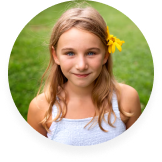
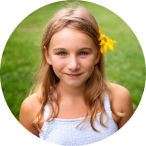
фывафыва

diff --git a/apps/klany_mobile/lib/src/features/home/pages/parent_family_settings_page.dart b/apps/klany_mobile/lib/src/features/home/pages/parent_family_settings_page.dart
@@ -19,6 +19,7 @@ import '../child_soft_ui.dart';
 import 'document_page.dart';
 import 'tech_support_page.dart';
 import '../../../core/app_snackbar.dart';
+import '../../../core/storage_presign.dart';
 
 const Color _figmaSettingsMint = Color(0xFFD9F6C2);
 const Color _figmaSettingsSkyButton = Color(0xFF9EC4F6);
@@ -696,7 +697,9 @@ class _ParentFamilySettingsPageState
                   builder: (context, constraints) {
                     final maxW = constraints.maxWidth;
                     final pageWidth = klanyResponsiveContentWidth(maxW);
-                    final sidePadding = maxW < 430 ? 19.0 : 24.0;
+                    // Карточка «Клан» — прежние поля; контент ниже — шире (меньший inset).
+                    final clanHorizontal = maxW < 430 ? 18.0 : 22.0;
+                    final settingsHorizontal = maxW < 430 ? 8.0 : 11.0;
                     return Center(
                       child: SizedBox(
                         width: pageWidth,
@@ -710,16 +713,18 @@ class _ParentFamilySettingsPageState
                           ),
                           child: ListView(
                             physics: const ClampingScrollPhysics(),
-                            padding: EdgeInsets.fromLTRB(
-                              sidePadding,
-                              31,
-                              sidePadding,
-                              40,
-                            ),
+                            padding: const EdgeInsets.fromLTRB(0, 31, 0, 40),
                             children: [
                               Padding(
-                                padding: EdgeInsets.zero,
-                                child: SizedBox(
+                                padding: EdgeInsets.symmetric(
+                                  horizontal: clanHorizontal,
+                                ),
+                                child: Column(
+                                  crossAxisAlignment:
+                                      CrossAxisAlignment.stretch,
+                                  mainAxisSize: MainAxisSize.min,
+                                  children: [
+                              SizedBox(
                                   height: 48,
                                   child: Row(
                                     crossAxisAlignment:
@@ -789,7 +794,6 @@ class _ParentFamilySettingsPageState
                                     ],
                                   ),
                                 ),
-                              ),
                               const SizedBox(height: 20),
 
                               // ── Clan card (3 rows in one card) ───────────────────────────
@@ -1246,6 +1250,8 @@ class _ParentFamilySettingsPageState
                                                 userKey: 'member:${c.id}',
                                                 avatarFallback: initial,
                                                 label: c.displayName,
+                                                avatarObjectKey:
+                                                    c.avatarObjectKey,
                                                 remoteImageUrl:
                                                     c.avatarImageUrl,
                                                 onAvatarTap: _busy
@@ -1437,6 +1443,18 @@ class _ParentFamilySettingsPageState
                                                           : '?',
                                                       remoteImageUrl:
                                                           item.avatarImageUrl,
+                                                      remoteDiskCacheKey:
+                                                          (item.avatarObjectKey ??
+                                                                      '')
+                                                                  .trim()
+                                                                  .isEmpty
+                                                              ? null
+                                                              : storageObjectDiskCacheKey(
+                                                                  'member-avatars',
+                                                                  item
+                                                                      .avatarObjectKey!
+                                                                      .trim(),
+                                                                ),
                                                     ),
                                                   ),
                                                   const SizedBox(width: 10),
@@ -2107,12 +2125,14 @@ class _MemberTile extends StatelessWidget {
     required this.userKey,
     required this.avatarFallback,
     required this.label,
+    this.avatarObjectKey,
     this.remoteImageUrl,
     this.onAvatarTap,
   });
   final String userKey;
   final String avatarFallback;
   final String label;
+  final String? avatarObjectKey;
   final String? remoteImageUrl;
   final VoidCallback? onAvatarTap;
 
@@ -2149,6 +2169,13 @@ class _MemberTile extends StatelessWidget {
               size: 56,
               fallbackText: avatarFallback,
               remoteImageUrl: remoteImageUrl,
+              remoteDiskCacheKey:
+                  (avatarObjectKey ?? '').trim().isEmpty
+                      ? null
+                      : storageObjectDiskCacheKey(
+                          'member-avatars',
+                          avatarObjectKey!.trim(),
+                        ),
             ),
           ),
           const SizedBox(height: 4),

diff --git a/apps/klany_mobile/lib/src/features/home/avatar_store.dart b/apps/klany_mobile/lib/src/features/home/avatar_store.dart
@@ -1,4 +1,6 @@
 import 'dart:io';
+
+import 'package:cached_network_image/cached_network_image.dart';
 import 'package:flutter/material.dart';
 import 'package:image_picker/image_picker.dart';
 import 'package:path_provider/path_provider.dart';
@@ -223,12 +225,16 @@ class UserAvatar extends StatefulWidget {
     required this.size,
     this.fallbackText,
     this.remoteImageUrl,
+    /// Стабильный ключ для [CachedNetworkImage] (bucket + objectKey или свой идентификатор).
+    /// Если null при наличии [remoteImageUrl], используется `avatar-remote::<userKey>`.
+    this.remoteDiskCacheKey,
   });
   final String userKey;
   final double size;
   final String? fallbackText;
   /// Прямая или presigned HTTPS-ссылка на аватар с сервера (приоритетнее локального файла).
   final String? remoteImageUrl;
+  final String? remoteDiskCacheKey;
 
   @override
   State<UserAvatar> createState() => _UserAvatarState();
@@ -258,7 +264,9 @@ class _UserAvatarState extends State<UserAvatar> {
   @override
   void didUpdateWidget(covariant UserAvatar oldWidget) {
     super.didUpdateWidget(oldWidget);
-    if (oldWidget.userKey != widget.userKey) {
+    if (oldWidget.userKey != widget.userKey ||
+        oldWidget.remoteImageUrl != widget.remoteImageUrl ||
+        oldWidget.remoteDiskCacheKey != widget.remoteDiskCacheKey) {
       _load();
     }
   }
@@ -283,6 +291,13 @@ class _UserAvatarState extends State<UserAvatar> {
   Widget build(BuildContext context) {
     final remote = widget.remoteImageUrl;
     if (remote != null && remote.isNotEmpty) {
+      final dpr = MediaQuery.devicePixelRatioOf(context);
+      final mw = (widget.size * dpr).round().clamp(1, 4096);
+      final cacheKey =
+          (widget.remoteDiskCacheKey ?? '').trim().isEmpty
+              ? 'avatar-remote::${widget.userKey}'
+              : widget.remoteDiskCacheKey!.trim();
+
       return Container(
         width: widget.size,
         height: widget.size,
@@ -292,14 +307,21 @@ class _UserAvatarState extends State<UserAvatar> {
         ),
         clipBehavior: Clip.antiAlias,
         alignment: Alignment.center,
-        child: Image.network(
-          remote,
-          fit: BoxFit.cover,
+        child: CachedNetworkImage(
+          imageUrl: remote,
+          cacheKey: cacheKey,
           width: widget.size,
           height: widget.size,
-          gaplessPlayback: true,
-          filterQuality: FilterQuality.medium,
-          errorBuilder: (_, _, _) => _localBody(),
+          fit: BoxFit.cover,
+          memCacheWidth: mw,
+          memCacheHeight: mw,
+          fadeInDuration: Duration.zero,
+          fadeOutDuration: Duration.zero,
+          placeholder: (context, url) => ColoredBox(
+            color: const Color(0xFFEFF2F8),
+            child: SizedBox(width: widget.size, height: widget.size),
+          ),
+          errorWidget: (context, url, error) => _localBody(),
         ),
       );
     }

diff --git a/apps/klany_mobile/lib/src/features/home/pages/parent_home_page.dart b/apps/klany_mobile/lib/src/features/home/pages/parent_home_page.dart
@@ -20,6 +20,7 @@ import '../../shop/pages/parent_shop_page.dart';
 import '../../wallet/pages/parent_wallets_page.dart';
 import '../../wallet/wallet_repository.dart';
 import '../../notifications/pages/notifications_page.dart';
+import '../../../core/storage_presign.dart';
 import '../avatar_store.dart';
 import '../child_soft_ui.dart';
 import 'parent_family_settings_page.dart';
@@ -1306,6 +1307,13 @@ class _MembersStripState extends State<_MembersStrip> {
             size: 73,
             fallbackText: initial,
             remoteImageUrl: e.value.avatarImageUrl,
+            remoteDiskCacheKey:
+                (e.value.avatarObjectKey ?? '').trim().isEmpty
+                    ? null
+                    : storageObjectDiskCacheKey(
+                        'member-avatars',
+                        e.value.avatarObjectKey!.trim(),
+                      ),
           ),
         ),
       );
@@ -1725,6 +1733,16 @@ class _ChildDetailsPanel extends StatelessWidget {
                               userKey: 'child:${wallet.childId}',
                               size: 56,
                               fallbackText: childInitial,
+                              remoteImageUrl: wallet.avatarImageUrl,
+                              remoteDiskCacheKey:
+                                  (wallet.avatarObjectKey ?? '')
+                                          .trim()
+                                          .isEmpty
+                                      ? null
+                                      : storageObjectDiskCacheKey(
+                                          'member-avatars',
+                                          wallet.avatarObjectKey!.trim(),
+                                        ),
                             ),
                             Positioned(
                               right: -2,

diff --git a/apps/klany_mobile/lib/src/core/storage_presign.dart b/apps/klany_mobile/lib/src/core/storage_presign.dart
@@ -141,3 +141,8 @@ void invalidatePresignStorageDownload({
     PresignStorageDownloadCache.invalidate(bucket: bucket, objectKey: objectKey);
 
 void clearPresignStorageDownloadCache() => PresignStorageDownloadCache.clear();
+
+/// Ключ для дискового кэша изображений ([CachedNetworkImage]): один объект в bucket —
+/// один файл на устройстве, пока не сменится [objectKey] (presigned URL при этом может меняться).
+String storageObjectDiskCacheKey(String bucket, String objectKey) =>
+    '${bucket.trim()}::${objectKey.trim()}';

diff --git a/apps/klany_mobile/lib/src/features/home/presigned_member_avatar.dart b/apps/klany_mobile/lib/src/features/home/presigned_member_avatar.dart
@@ -61,6 +61,8 @@ class _PresignedMemberAvatarState extends State<PresignedMemberAvatar> {
           size: widget.size,
           fallbackText: widget.fallbackText,
           remoteImageUrl: snap.data,
+          remoteDiskCacheKey:
+              storageObjectDiskCacheKey(widget.bucket, widget.objectKey),
         );
       },
     );
